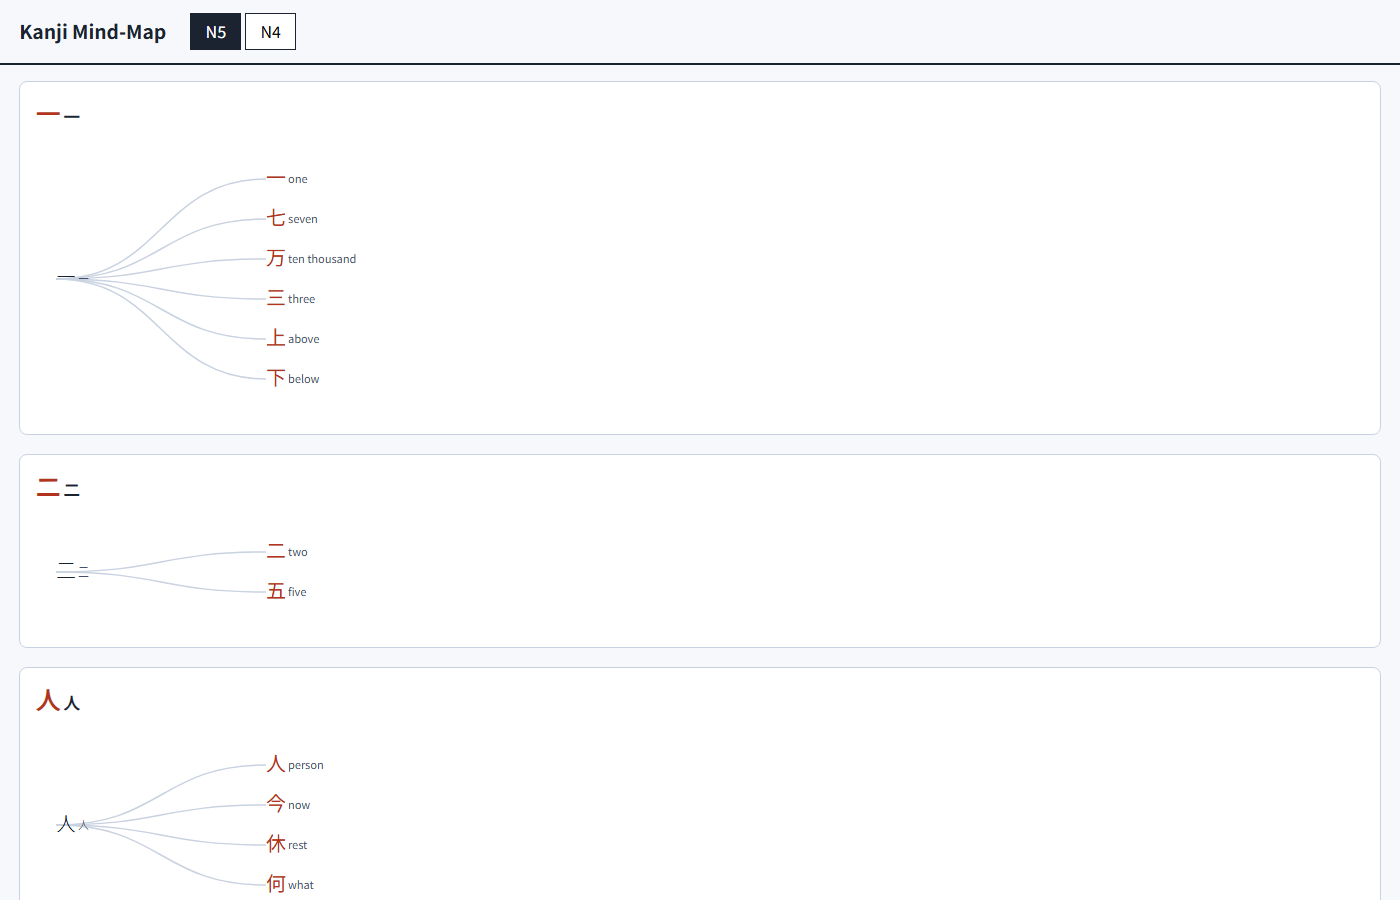
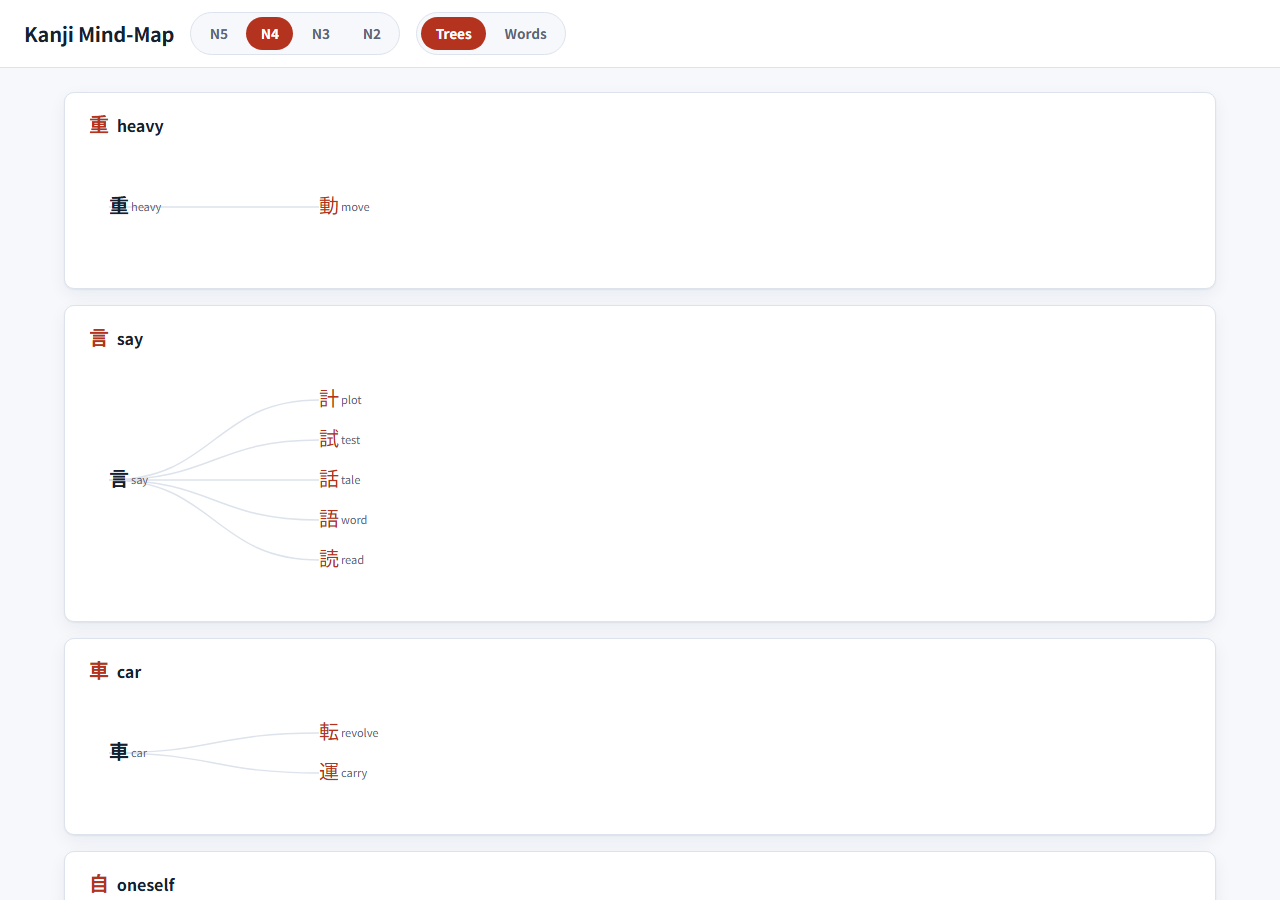
docs: document v2 (N3/N2, words feature, redesign, variant fix)

diff --git a/index.html b/index.html
@@ -3,7 +3,7 @@
 <head>
   <meta charset="utf-8" />
   <meta name="viewport" content="width=device-width, initial-scale=1" />
-  <title>Kanji Mind-Map · JLPT N5 / N4</title>
+  <title>Kanji Mind-Map · JLPT N5–N2</title>
   <link rel="stylesheet" href="css/styles.css" />
   <script src="https://cdn.jsdelivr.net/npm/d3@7.9.0/dist/d3.min.js"></script>
 </head>

diff --git a/README.md b/README.md
@@ -1,4 +1,4 @@
-# Kanji Mind-Map (JLPT N5 + N4)
+# Kanji Mind-Map (JLPT N5–N2)
 
 Interactive kanji mind-maps organized by JLPT level, showing on'yomi and kun'yomi
 readings with heuristic sample vocabulary.  The same data is rendered as a
@@ -10,27 +10,44 @@ printable PDF for each level.
 
 ## What it does
 
-- **Web app** (static, no build step) — browse N5 and N4 kanji arranged into
-  "built-from" mind-map trees, where each kanji branches off the simpler kanji
-  it is structurally composed of (e.g. 一 → 元 → 院, 十 → 土 → 主 → 注).  Click
-  any kanji node — including the root building-block — to open a detail panel
-  showing stroke count, meanings, on'yomi/kun'yomi readings, and example words
-  for each reading.
-- **Print / PDF** — `print.html?level=N5` (or `N4`) renders all trees and a
-  reference table suitable for printing or exporting to PDF.  PDFs
-  (`kanji-N5.pdf`, `kanji-N4.pdf`) are built in CI and downloadable as an
-  artifact from the Actions tab, or generated locally (see below).
-- **Offline-first** — all data is bundled in `data/n5.json` and `data/n4.json`
+- **Web app** (static, no build step) — browse N5, N4, N3, and N2 kanji arranged
+  into "built-from" mind-map trees, where each kanji branches off the simpler
+  kanji it is structurally composed of (e.g. 一 → 元 → 院, 十 → 土 → 主 → 注).
+  Click any kanji node — including the root building-block — to open a detail
+  panel showing stroke count, meanings, on'yomi/kun'yomi readings, example words
+  for each reading, and a **"Words using this kanji"** cross-link list of
+  compound words whose every kanji appears at or below the current level.
+- **Words view** (new in v2) — a gallery of compound words (sourced from JMdict)
+  whose every kanji you have learned up to and including the selected level
+  (cumulative known-set), capped at 250 words per level.  Words are sorted by
+  kanji-count descending then by length.  Clicking a kanji chip in a word card
+  opens that kanji's detail panel.
+- **Navigation** — a level selector (N5 N4 N3 N2) and a Trees | Words view
+  toggle let you switch context without reloading.
+- **Print / PDF** — `print.html?level=N5` (or `N4`, `N3`, `N2`) renders all
+  trees plus a reference table and a words-reference table suitable for printing
+  or exporting to PDF.  PDFs (`kanji-N5.pdf` through `kanji-N2.pdf`) are built
+  in CI and downloadable as an artifact from the Actions tab, or generated
+  locally (see below).
+- **Offline-first** — all data is bundled in `data/n5.json` … `data/n2.json`
   (no runtime network calls from the browser).
+- **Mobile / responsive** — below 700 px the detail panel becomes a bottom
+  sheet, the words grid collapses to a single column, and mind-map cluster cards
+  scroll horizontally.
 
 ---
 
 ## Data counts
 
-| Level | Kanji in JSON | Clusters |
-|-------|--------------|----------|
-| N5    | 79           | 10 (chains are short — N5 kanji are mostly primitive building blocks) |
-| N4    | 227 (N4 kanji plus the N5 building-block kanji that connect them into chains) | 29 |
+| Level | Kanji in JSON | Clusters | Words (capped) |
+|-------|--------------|----------|----------------|
+| N5    | 79           | 10       | 250            |
+| N4    | 228          | 31       | 250            |
+| N3    | 585          | 53       | 250            |
+| N2    | 877          | 66       | 250            |
+
+N4 kanji count includes the N5 building-block kanji that connect N4 kanji into
+chains; similarly for N3 and N2.
 
 ---
 
@@ -44,11 +61,16 @@ from Ideographic Description Sequences (IDS) by `scripts/trees_ids.py`:
   unrelated component, and chains deepen naturally: 一 → 元 → 院, 十 → 土 → 主 → 注.
 - **Roots** are real kanji building-blocks (一, 月, 言, 車 …) with no in-scope
   parent; they are clickable like any other node.
-- The **N5 view** restricts parents to N5 kanji.  The **N4 view** uses N5 ∪ N4
-  so N5 kanji can connect N4 kanji into chains, keeping only trees that contain
-  at least one N4 kanji.
+- Each level view uses the **cumulative** kanji set (N5 ∪ … ∪ this level) as
+  the parent-search scope, so lower-level kanji can connect higher-level kanji
+  into longer chains.  Only trees that contain at least one kanji from the
+  current level are shown.
 - Kanji with no in-scope parent *and* no children are collected into a single
   **"Other (standalone)"** cluster.
+- **Radical-variant unification** — a `VARIANT_TO_KANJI` map in
+  `scripts/trees_ids.py` normalises orthographic variants before IDS lookup
+  (e.g. the food radical 飠 → 食), so kanji like 飯, 飲, and 館 correctly nest
+  under 食 rather than appearing as orphans.
 
 This replaced an earlier approach (hand-transcribed trees + Kangxi-radical
 grouping) that produced wrong edges (e.g. 字 grouped under 月) and shallow,
@@ -58,7 +80,8 @@ disconnected chains.
 > JMdict — on'yomi examples are matched by a reading-substring of the
 > on-yomi; kun'yomi examples are matched by a reading-prefix of the full kun
 > reading (excluding on-reading words).  The selection is example-quality and
-> is not exhaustive.
+> is not exhaustive.  The Words view words are likewise heuristic
+> example-quality and are not a curated word list.
 
 ---
 
@@ -98,7 +121,7 @@ decomposition file into `raw/` (gitignored).
 python -m scripts.build_data
 ```
 
-Writes `data/n5.json` and `data/n4.json`.
+Writes `data/n5.json`, `data/n4.json`, `data/n3.json`, and `data/n2.json`.
 
 > **Important:** always run pipeline scripts as modules (`python -m scripts.build_data`,
 > not `python scripts/build_data.py`) from the repo root — they use
@@ -118,36 +141,36 @@ Then open http://localhost:8000.
 python -m pdf.generate_pdf
 ```
 
-Writes `pdf/kanji-N5.pdf` and `pdf/kanji-N4.pdf`.
+Writes `pdf/kanji-N5.pdf` through `pdf/kanji-N2.pdf`.
 
 ---
 
 ## Running tests
 
 ```bash
-# JavaScript (Node built-in runner, 7 tests)
+# JavaScript (Node built-in runner, 12 tests)
 npm test
 
-# Python (pytest, 16 tests)
+# Python (pytest, 23 tests)
 python -m pytest
 ```
 
 ---
 
-## How to add N3, N2, or N1 later
+## How to add N1 later
 
-The schema and code already treat level as a parameter; adding a new level
-requires three small steps:
+The schema and code already treat level as a parameter; adding N1 requires
+three small steps:
 
-1. **Data** — in `scripts/build_data.py`, add the new level key to
-   `_jlpt_chars` (it maps level strings like `"N3"` to the corresponding
-   character set), then call `trees_ids.build_forest(...)` for it in `main()`
-   exactly as N4 does (scope = lower levels ∪ this level, `required` = this
-   level's kanji).  No new tree module is needed — the IDS builder works for
-   every level automatically.
-2. **Navigation** — add a `<button data-level="N3">N3</button>` (or equivalent)
-   to the `#levels` nav in `index.html` and a matching entry in the level list
-   in `print.html`.
+1. **Data** — in `scripts/build_data.py`, add `"N1"` to the `LEVEL_ORDER` list
+   and supply its character set in `_jlpt_chars`.  The `main()` loop already
+   iterates `LEVEL_ORDER` and builds each level's cumulative known-set
+   automatically, so N1 will be built with scope = N5 ∪ N4 ∪ N3 ∪ N2 ∪ N1 and
+   the words index will use the same cumulative set with the 250-word cap.  No
+   new tree module is needed — the IDS builder works for every level.
+2. **Navigation** — add a `<button data-level="N1">N1</button>` to the `#levels`
+   nav in `index.html` and a matching entry in `print.html`.
+3. **PDF CI** — add `N1` to the level list in `.github/workflows/pdf.yml`.
 
 No structural changes to `js/` or `css/` are needed.
 
@@ -179,8 +202,9 @@ can be downloaded from the Actions tab.
 > derived facts together with the EDRDG-derived readings/vocabulary and is
 > distributed under **CC BY-SA 4.0**.
 
-The generated files `data/n5.json` and `data/n4.json` are derivative works of
-KANJIDIC2 and JMdict and are therefore distributed under **CC BY-SA 4.0**.
+The generated files `data/n5.json` through `data/n2.json` are derivative works
+of KANJIDIC2 and JMdict and are therefore distributed under **CC BY-SA 4.0**.
 
-Source mind-map screenshots used during N4 tree transcription are third-party
-material and are **not** included in this repository (listed in `.gitignore`).
+> **Words quality note:** compound words in the Words view and "words using this
+> kanji" cross-links are selected heuristically from JMdict and are
+> example-quality — they are not a curated or exhaustive vocabulary list.